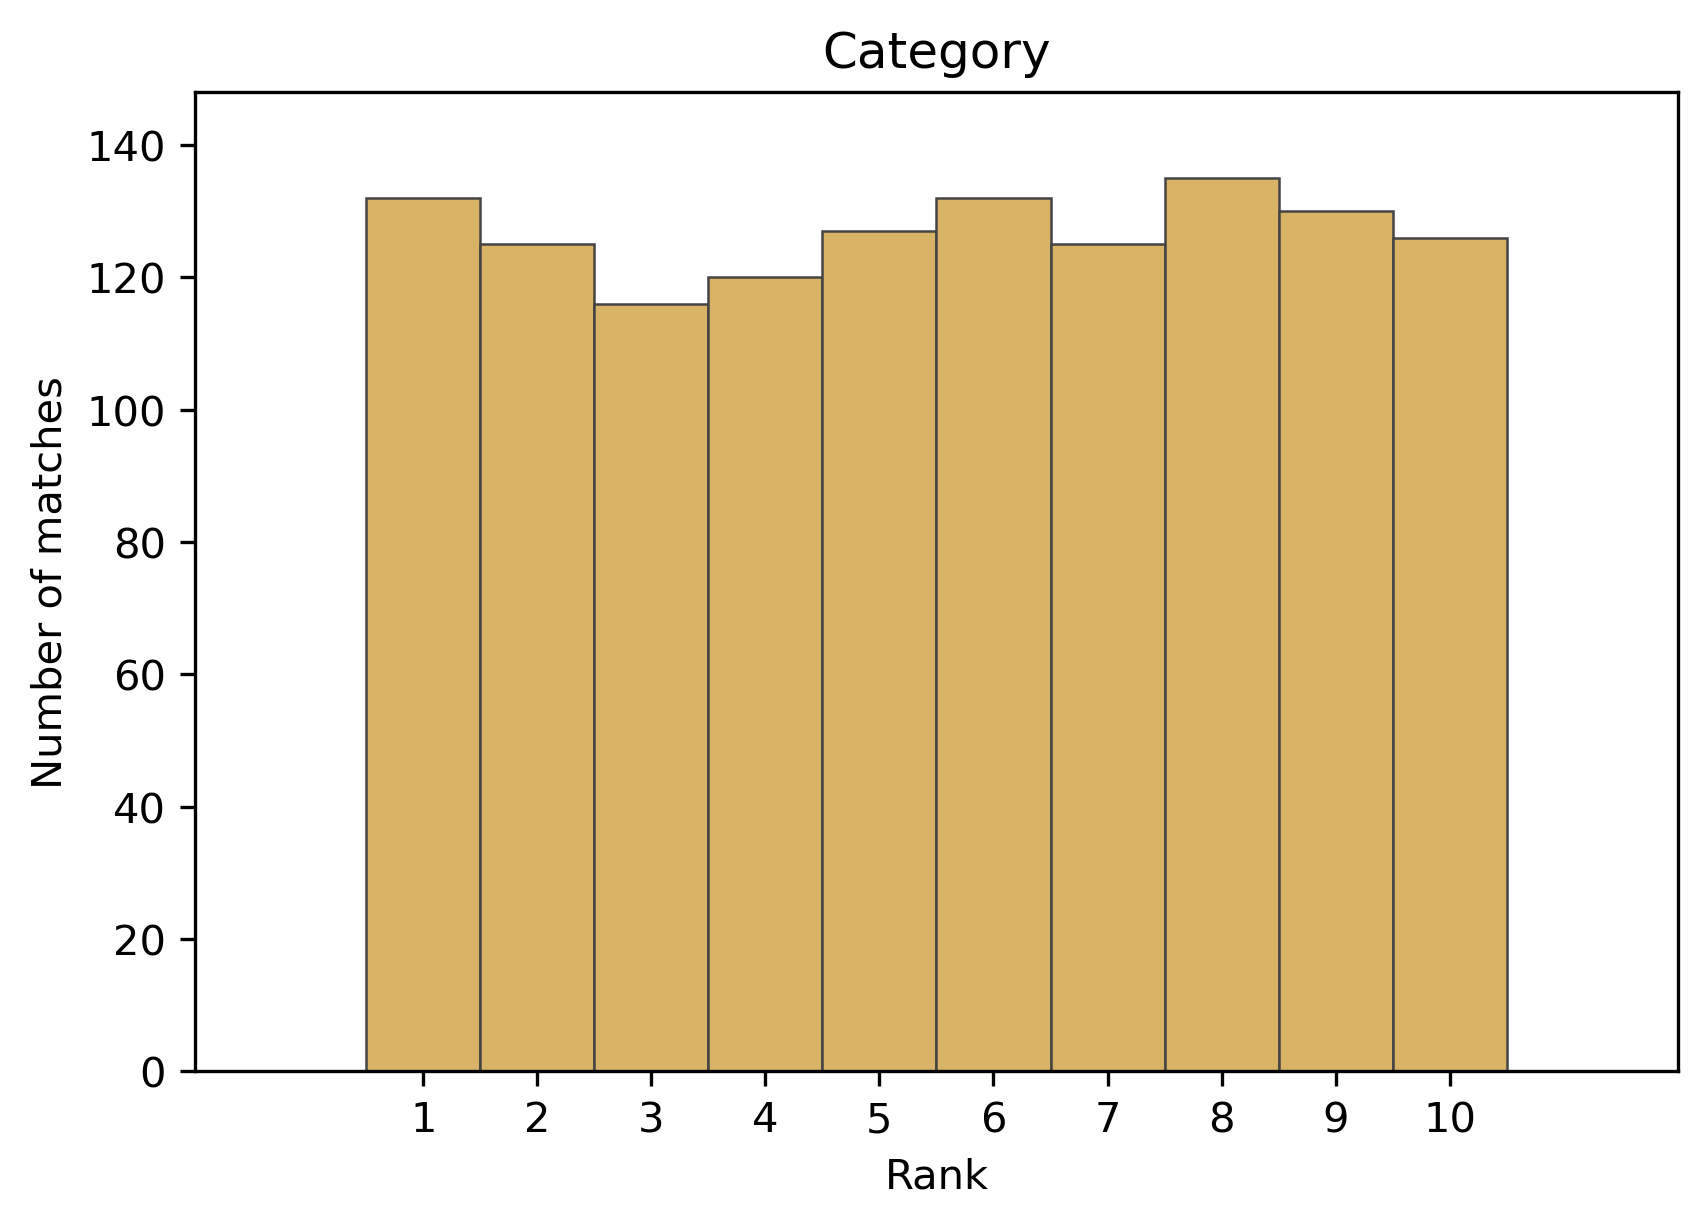
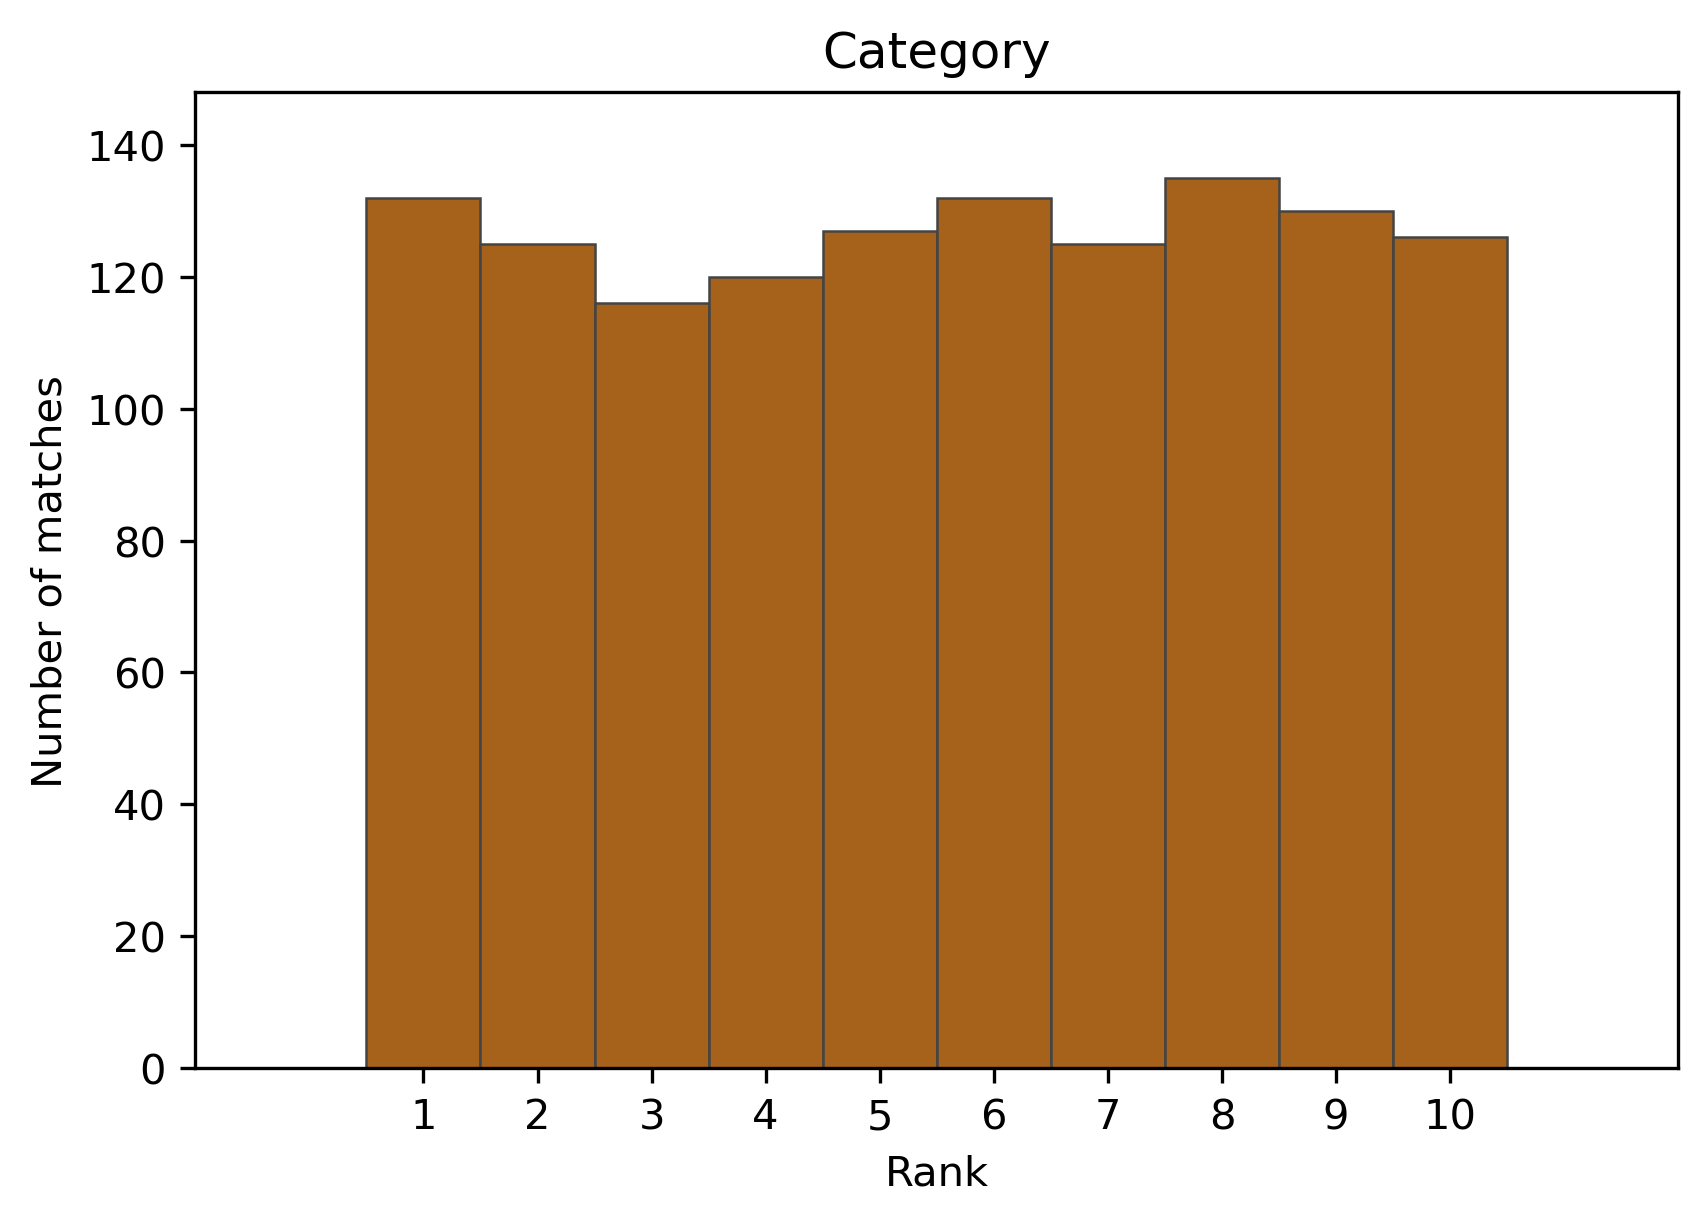
add: analysis (rank line plot)

diff --git a/analysis/hit_at_k_rank_distribution.py b/analysis/hit_at_k_rank_distribution.py
@@ -21,17 +21,17 @@ METRICS = {
     "category": {
         "label": "Category",
         "score_field": "task_type_match_score",
-        "color": "#dfc27d",
+        "color": "#a6611a",
     },
     "target": {
         "label": "Target",
         "score_field": "target_match_score",
-        "color": "#80cdc1",
+        "color": "#01665e",
     },
     "matched_user_turn": {
         "label": "Any-Turn Target",
         "score_field": "matched_user_turn_score",
-        "color": "#018571",
+        "color": "#5ab4ac",
     },
 }
 
@@ -40,6 +40,7 @@ INPUT_DIR = ROOT / "aggregated-outputs"
 OUTPUT_CSV_PATH = ROOT / "analysis" / "hit_at_k_rank_distribution_counts.csv"
 OUTPUT_CATEGORY_PNG_PATH = ROOT / "analysis" / "hit_at_k_rank_distribution_category.png"
 OUTPUT_TARGETS_PNG_PATH = ROOT / "analysis" / "hit_at_k_rank_distribution_targets.png"
+OUTPUT_LINES_PNG_PATH = ROOT / "analysis" / "hit_at_k_rank_distribution_lines.png"
 MPLCONFIGDIR = Path("/private/tmp") / "inst878-vqasim-matplotlib-cache"
 
 
@@ -186,12 +187,47 @@ def plot_target_distributions(counts_df: pd.DataFrame) -> None:
     plt.close(fig)
 
 
+def plot_line_distribution(counts_df: pd.DataFrame) -> None:
+    import matplotlib.pyplot as plt
+
+    markers = {
+        "category": "o",
+        "target": "s",
+        "matched_user_turn": "x",
+    }
+    fig, ax = plt.subplots(figsize=(7.2, 4.4))
+
+    for metric, spec in METRICS.items():
+        metric_df = counts_df[counts_df["metric"] == metric].sort_values("rank")
+        ax.plot(
+            metric_df["rank"],
+            metric_df["match_count"],
+            color=spec["color"],
+            marker=markers[metric],
+            markersize=5,
+            linewidth=1.0,
+            label=spec["label"],
+        )
+
+    max_count = int(counts_df["match_count"].max())
+    ax.set_xlabel("Rank")
+    ax.set_ylabel("Number of matches")
+    ax.set_xticks(RANKS)
+    ax.set_xlim(0.75, 10.25)
+    ax.set_ylim(0, max_count + max(1, int(max_count * 0.1)))
+    ax.legend(frameon=True)
+    fig.tight_layout()
+    fig.savefig(OUTPUT_LINES_PNG_PATH, dpi=300, bbox_inches="tight")
+    plt.close(fig)
+
+
 def plot_rank_distribution(counts_df: pd.DataFrame) -> None:
     MPLCONFIGDIR.mkdir(parents=True, exist_ok=True)
     os.environ.setdefault("MPLCONFIGDIR", str(MPLCONFIGDIR))
 
     plot_category_distribution(counts_df)
     plot_target_distributions(counts_df)
+    plot_line_distribution(counts_df)
 
 
 def main() -> None:
@@ -204,7 +240,8 @@ def main() -> None:
     print(
         f"Saved rank distribution for {len(participants)} participants and "
         f"{successful_interactions} successful interactions to {OUTPUT_CSV_PATH}; "
-        f"plots to {OUTPUT_CATEGORY_PNG_PATH} and {OUTPUT_TARGETS_PNG_PATH}"
+        f"plots to {OUTPUT_CATEGORY_PNG_PATH}, {OUTPUT_TARGETS_PNG_PATH}, "
+        f"and {OUTPUT_LINES_PNG_PATH}"
     )
 
 
